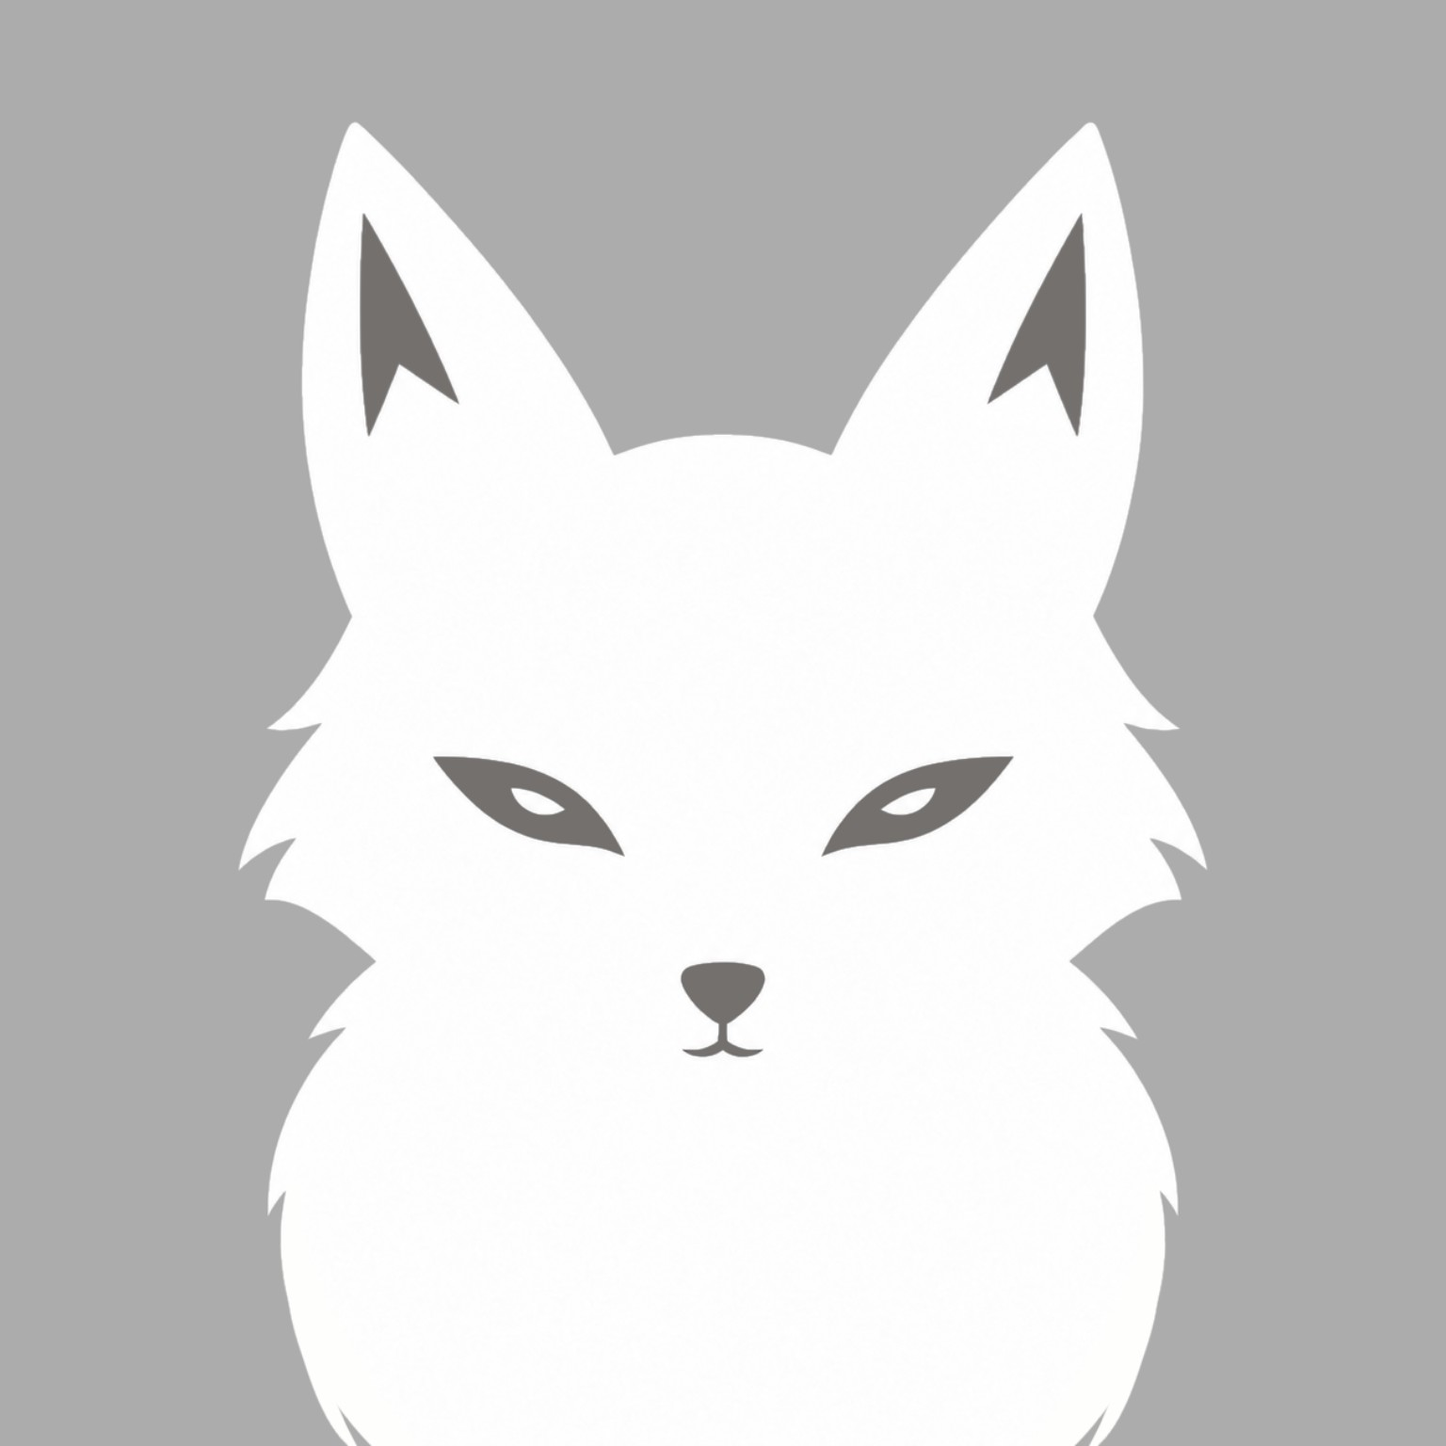
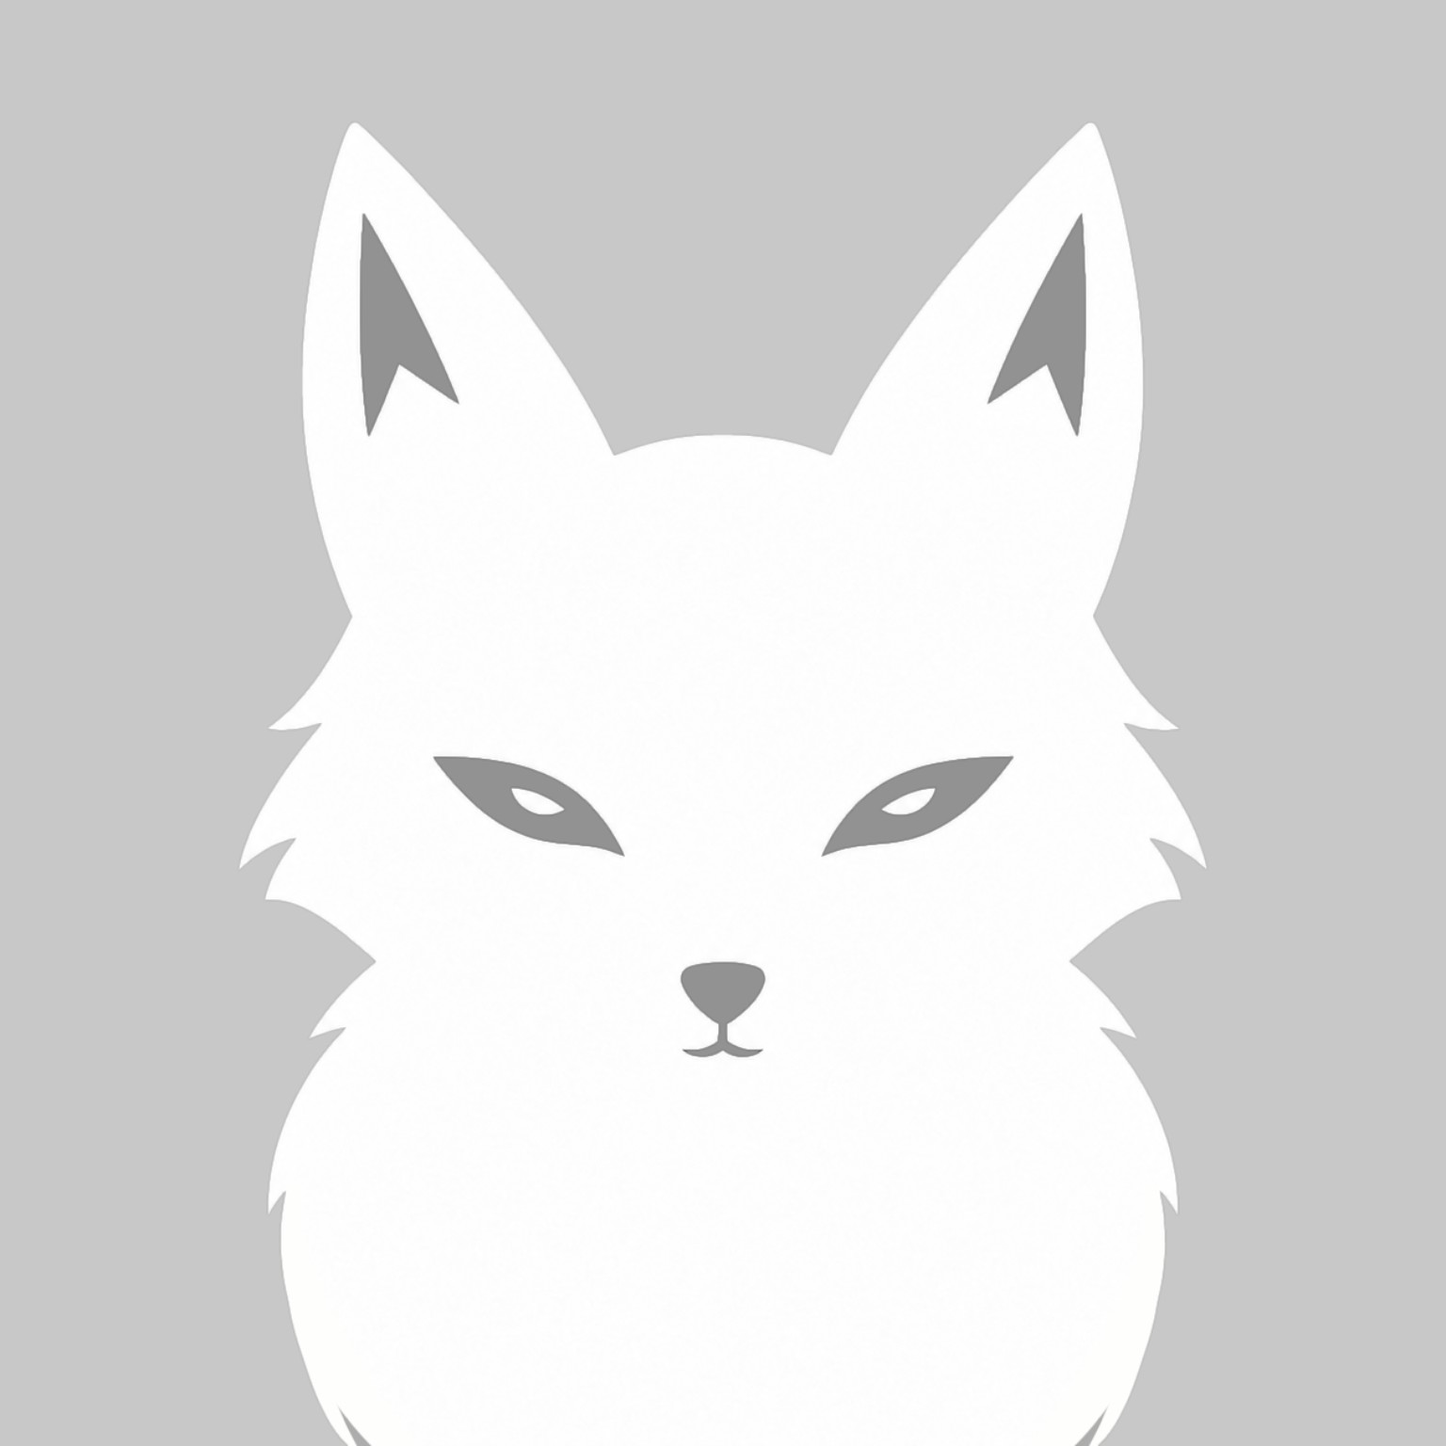
空照片统一使用小鸟吃掉图片预设，更新浅色默认头像与窗口图标
- 新增 PhotoImage 与 public/images/photo-placeholder.png：Chat 回忆照片、个人信息拍立得、播放器与音乐设置封面在未上传或读取失败时显示预设
- 预设不写入存档或图片库，上传图仍优先
- 替换狐狸、小鸟头像为浅色版本
- 删除 Chat 原空照片加号、提示文字与波点背景规则
- 图片清理标题图标与语音服务同色，关闭控件改为 12px 窗口方框叉号
- 新增说明 docs/photo-defaults-and-window-icons.md

Claude-Session: https://claude.ai/code/session_016ZF5nt8Kb8CDXJc19mBmz1

diff --git a/src/pages/Settings/Music/components/MusicTrackRow.tsx b/src/pages/Settings/Music/components/MusicTrackRow.tsx
@@ -1,3 +1,4 @@
+import {PhotoImage} from '../../../../components/shared/PhotoImage';
 import { PressedButton } from '../../../../components/shared/PressedButton';
 import type { CSSProperties } from 'react';
 import type { MusicTrack } from '../../../../types/music';
@@ -5,5 +6,5 @@ import { useMusic } from '../../../../providers/MusicProvider';
 export function MusicTrackRow({ track, index, isCurrent, isEditing, ghost = false, style }: { track: MusicTrack; index: number; isCurrent: boolean; isEditing: boolean; ghost?: boolean; style?: CSSProperties }) {
  const music = useMusic();
  const sorting = !ghost && music.drag?.sourceId === track.id;
- return <div className={`music-track-item${isCurrent ? ' active' : ''}${isEditing ? ' editing' : ''}${ghost ? ' music-drag-ghost' : sorting ? ' dragging touch-drag-source' : ''}`} draggable={false} data-track-id={track.id} style={style} ref={ghost ? undefined : node=>{if(node)music.rowRefs.current.set(track.id,node);else music.rowRefs.current.delete(track.id);}} onClick={ghost ? undefined : event=>{if((event.target as Element).closest('button,.music-track-drag'))return;music.selectTrack(track);}}>{"\n                "}<div className="music-track-thumb">{track.coverData ? <img src={track.coverData} alt="音乐封面" /> : <span>♪</span>}</div>{"\n                "}<div className="music-track-copy">{"\n                    "}<div className="music-track-name-row">{"\n                        "}<div className="music-track-name">{track.title || '未命名音乐'}</div>{isCurrent ? <>{"\n                        "}<span className="music-track-badge">当前</span>{"\n                    "}</> : "\n                        \n                    "}</div>{"\n                    "}<div className="music-track-sub">{`${track.type === 'file' ? '本地音乐' : '链接音乐'} · 第 ${index+1} 首`}</div>{"\n                "}</div>{"\n                "}<div className="music-track-actions">{"\n                    "}<div className="music-track-drag" onClick={event=>event.stopPropagation()} onPointerDown={ghost ? undefined : event=>music.beginSort(event,track,index)} aria-hidden="true" data-title="拖动排序"><svg xmlns="http://www.w3.org/2000/svg" width="14" height="14" viewBox="0 0 24 24" fill="none" stroke="currentColor" strokeWidth="2" strokeLinecap="round" strokeLinejoin="round"><circle cx="9" cy="12" r="1"></circle><circle cx="9" cy="5" r="1"></circle><circle cx="9" cy="19" r="1"></circle><circle cx="15" cy="12" r="1"></circle><circle cx="15" cy="5" r="1"></circle><circle cx="15" cy="19" r="1"></circle></svg></div>{"\n                    "}<PressedButton className="music-track-edit" onClick={ghost ? undefined : event=>{event.stopPropagation();music.chooseFiles(track.id);}} type="button" aria-label="更改音乐" data-title="更改音乐">{"\n                        "}<svg xmlns="http://www.w3.org/2000/svg" width="16" height="16" viewBox="0 0 24 24" fill="none" stroke="currentColor" strokeWidth="2" strokeLinecap="round" strokeLinejoin="round" className="lucide lucide-folder-open"><path d="m6 14 1.5-2.9A2 2 0 0 1 9.24 10H20a2 2 0 0 1 1.94 2.5l-1.54 6a2 2 0 0 1-1.95 1.5H4a2 2 0 0 1-2-2V5a2 2 0 0 1 2-2h3.9a2 2 0 0 1 1.69.9l.81 1.2a2 2 0 0 0 1.67.9H18a2 2 0 0 1 2 2v2"></path></svg>{"\n                    "}</PressedButton>{"\n                    "}<PressedButton className="music-track-delete" onClick={ghost ? undefined : event=>{event.stopPropagation();void music.deleteTrack(track);}} type="button" aria-label="删除音乐" data-title="删除音乐">{"\n                        "}<svg xmlns="http://www.w3.org/2000/svg" width="16" height="16" viewBox="0 0 24 24" fill="none" stroke="currentColor" strokeWidth="2" strokeLinecap="round" strokeLinejoin="round" className="lucide lucide-trash"><path d="M10 11v6"></path><path d="M14 11v6"></path><path d="M19 6v14a2 2 0 0 1-2 2H7a2 2 0 0 1-2-2V6"></path><path d="M3 6h18"></path><path d="M8 6V4a2 2 0 0 1 2-2h4a2 2 0 0 1 2 2v2"></path></svg>{"\n                    "}</PressedButton>{"\n                "}</div>{"\n            "}</div>;
+ return <div className={`music-track-item${isCurrent ? ' active' : ''}${isEditing ? ' editing' : ''}${ghost ? ' music-drag-ghost' : sorting ? ' dragging touch-drag-source' : ''}`} draggable={false} data-track-id={track.id} style={style} ref={ghost ? undefined : node=>{if(node)music.rowRefs.current.set(track.id,node);else music.rowRefs.current.delete(track.id);}} onClick={ghost ? undefined : event=>{if((event.target as Element).closest('button,.music-track-drag'))return;music.selectTrack(track);}}>{"\n                "}<div className="music-track-thumb"><PhotoImage src={track.coverData} alt="音乐封面" /></div>{"\n                "}<div className="music-track-copy">{"\n                    "}<div className="music-track-name-row">{"\n                        "}<div className="music-track-name">{track.title || '未命名音乐'}</div>{isCurrent ? <>{"\n                        "}<span className="music-track-badge">当前</span>{"\n                    "}</> : "\n                        \n                    "}</div>{"\n                    "}<div className="music-track-sub">{`${track.type === 'file' ? '本地音乐' : '链接音乐'} · 第 ${index+1} 首`}</div>{"\n                "}</div>{"\n                "}<div className="music-track-actions">{"\n                    "}<div className="music-track-drag" onClick={event=>event.stopPropagation()} onPointerDown={ghost ? undefined : event=>music.beginSort(event,track,index)} aria-hidden="true" data-title="拖动排序"><svg xmlns="http://www.w3.org/2000/svg" width="14" height="14" viewBox="0 0 24 24" fill="none" stroke="currentColor" strokeWidth="2" strokeLinecap="round" strokeLinejoin="round"><circle cx="9" cy="12" r="1"></circle><circle cx="9" cy="5" r="1"></circle><circle cx="9" cy="19" r="1"></circle><circle cx="15" cy="12" r="1"></circle><circle cx="15" cy="5" r="1"></circle><circle cx="15" cy="19" r="1"></circle></svg></div>{"\n                    "}<PressedButton className="music-track-edit" onClick={ghost ? undefined : event=>{event.stopPropagation();music.chooseFiles(track.id);}} type="button" aria-label="更改音乐" data-title="更改音乐">{"\n                        "}<svg xmlns="http://www.w3.org/2000/svg" width="16" height="16" viewBox="0 0 24 24" fill="none" stroke="currentColor" strokeWidth="2" strokeLinecap="round" strokeLinejoin="round" className="lucide lucide-folder-open"><path d="m6 14 1.5-2.9A2 2 0 0 1 9.24 10H20a2 2 0 0 1 1.94 2.5l-1.54 6a2 2 0 0 1-1.95 1.5H4a2 2 0 0 1-2-2V5a2 2 0 0 1 2-2h3.9a2 2 0 0 1 1.69.9l.81 1.2a2 2 0 0 0 1.67.9H18a2 2 0 0 1 2 2v2"></path></svg>{"\n                    "}</PressedButton>{"\n                    "}<PressedButton className="music-track-delete" onClick={ghost ? undefined : event=>{event.stopPropagation();void music.deleteTrack(track);}} type="button" aria-label="删除音乐" data-title="删除音乐">{"\n                        "}<svg xmlns="http://www.w3.org/2000/svg" width="16" height="16" viewBox="0 0 24 24" fill="none" stroke="currentColor" strokeWidth="2" strokeLinecap="round" strokeLinejoin="round" className="lucide lucide-trash"><path d="M10 11v6"></path><path d="M14 11v6"></path><path d="M19 6v14a2 2 0 0 1-2 2H7a2 2 0 0 1-2-2V6"></path><path d="M3 6h18"></path><path d="M8 6V4a2 2 0 0 1 2-2h4a2 2 0 0 1 2 2v2"></path></svg>{"\n                    "}</PressedButton>{"\n                "}</div>{"\n            "}</div>;
 }

diff --git a/src/pages/Settings/DataManagement/DataManagement.css b/src/pages/Settings/DataManagement/DataManagement.css
@@ -3,10 +3,10 @@
 .image-storage-tool { border: 1px solid var(--color-muted); border-radius: 3px; background: var(--color-surface); box-shadow: var(--effect-drop); overflow: hidden; color: var(--color-text); }
 .image-storage-titlebar { display: flex; align-items: center; justify-content: space-between; gap: 8px; padding: 8px 12px; border-bottom: 1px solid var(--color-muted); background: var(--color-page); }
 .image-storage-titlebar h3 { display: flex; align-items: center; gap: 5px; margin: 0; color: var(--color-text); font-size: 11px; font-weight: 600; letter-spacing: .8px; }
-.image-storage-titlebar h3 svg { width: 12px; height: 12px; fill: none; stroke: currentColor; stroke-width: 1.5; }
+.image-storage-titlebar h3 svg { width: 12px; height: 12px; fill: none; stroke: var(--set-fill, var(--win-deep)); stroke-width: 1.5; }
 .image-storage-title-tools { display: flex; align-items: center; gap: 8px; color: var(--color-muted); font-size: 9px; }
-.image-storage-close { width: 18px; height: 18px; padding: 0; display: grid; place-items: center; border: 1px solid var(--color-muted); border-radius: 1px; background: var(--effect-face-white); color: var(--color-text); box-shadow: var(--effect-raised); cursor: pointer; }
-.image-storage-close svg { width: 10px; height: 10px; fill: none; stroke: currentColor; stroke-width: 1.2; }
+.image-storage-close { width: 12px; height: 12px; padding: 0; display: grid; place-items: center; border: 0; border-radius: 0; background: transparent; color: var(--win-line); box-shadow: none; cursor: pointer; }
+.image-storage-close svg { width: 12px; height: 12px; fill: none; stroke: currentColor; stroke-width: 1; }
 .image-storage-content { padding: 16px; }
 .image-storage-intro { display: flex; align-items: center; gap: 10px; margin-bottom: 18px; }
 .image-storage-icon { width: 32px; height: 32px; flex: 0 0 32px; color: var(--color-accent); }

diff --git a/src/pages/Chat/List/ChatMemoryPhoto.tsx b/src/pages/Chat/List/ChatMemoryPhoto.tsx
@@ -1,5 +1,11 @@
-import {useRef,useState} from 'react';
 import {useChatMemory} from '../../../providers/ChatMemoryProvider';
+import {PhotoImage} from '../../../components/shared/PhotoImage';
 import type {NativeAttribute} from '../../../types/dom';
-export function ChatMemoryPhoto({attributes}:{attributes:NativeAttribute[]}){const memory=useChatMemory(),id=attributes.find(a=>a.name==='id')!.value;const [loaded,setLoaded]=useState(false),[failed,setFailed]=useState('');const source=memory.photos[id];const img=useRef<HTMLImageElement|null>(null);return <div className={'chat-memory-photo-wrap'+(loaded?' has-photo':'')} tabIndex={0} role="button" aria-label="添加或更换回忆照片" onClick={()=>memory.open(id)} onKeyDown={event=>{if(event.key==='Enter'||event.key===' '){event.preventDefault();memory.open(id);}}}><img ref={img} className="chat-memory-photo" id={id} alt="回忆照片" src={source&&source!==failed?source:undefined} onLoad={()=>setLoaded(true)} onError={()=>{setLoaded(false);setFailed(source);}}/></div>;}
+export function ChatMemoryPhoto({attributes}:{attributes:NativeAttribute[]}){
+  const memory=useChatMemory(),id=attributes.find(a=>a.name==='id')!.value;
+  return <div className="chat-memory-photo-wrap" tabIndex={0} role="button" aria-label="添加或更换回忆照片"
+    onClick={()=>memory.open(id)} onKeyDown={event=>{if(event.key==='Enter'||event.key===' '){event.preventDefault();memory.open(id);}}}>
+    <PhotoImage className="chat-memory-photo" id={id} alt="回忆照片" src={memory.photos[id]}/>
+  </div>;
+}
 export function ChatMemoryInput(){const memory=useChatMemory();return <input ref={memory.input} type="file" accept="image/*" hidden aria-label="选择回忆照片" onChange={memory.change}/>;}

diff --git a/src/pages/Chat/List/ChatList.css b/src/pages/Chat/List/ChatList.css
@@ -210,22 +210,7 @@
 
 /* @qingtuan-order:001768 */
 
-        .chat-memory-photo-wrap:not(.has-photo)::after {
-            content: '+';
-            position: absolute;
-            left: 50%;
-            top: 43%;
-            transform: translate(-50%, -50%);
-            font-size: 23px;
-            font-weight: 300;
-            line-height: 1;
-            color: var(--color-muted);
-            pointer-events: none;
-        }
-
 /* @qingtuan-order:001769 */
-
-        .chat-memory-photo-wrap:not(.has-photo) .chat-memory-photo { display: none; }
 
 /* @qingtuan-order:001770 */
 
@@ -612,19 +597,7 @@
 
 /* @qingtuan-order:001943 */
 
-#chatListView .chat-memory-photo-wrap:not(.has-photo)::after{
-  content:'＋  点击添加照片';top:50%;white-space:pre;padding:3px 10px;background:var(--color-surface);
-  color:var(--win-line);font-size:11px;letter-spacing:1px;font-weight:400;
-}
-
 /* @qingtuan-order:001944 */
-
-#chatListView .chat-memory-photo-wrap:not(.has-photo){
-  /* 两层错开的点点各往内挪 3.5px：原本有一排圆心刚好落在框的上缘，只露出半颗，看起来像一条虚线 */
-  background:
-    radial-gradient(circle,color-mix(in srgb,var(--theme-color) 42%,transparent) 0 1.6px,transparent 2.1px) 3.5px 3.5px / 14px 14px,
-    radial-gradient(circle,color-mix(in srgb,var(--theme-color) 42%,transparent) 0 1.6px,transparent 2.1px) 10.5px 10.5px / 14px 14px!important;
-}
 
 /* @qingtuan-order:001945 */
 

diff --git a/src/pages/PersonalProfile/PersonalProfile.tsx b/src/pages/PersonalProfile/PersonalProfile.tsx
@@ -1,4 +1,4 @@
-import { DEFAULT_BIRD_AVATAR } from '../../utils/defaultAvatar';
+import { DEFAULT_PHOTO } from '../../utils/defaultPhoto';
 import { PressedButton } from '../../components/shared/PressedButton';
 import { OriginalComment } from '../../components/shared/OriginalComment';
 import { EditableText } from '../../components/shared/EditableText';
@@ -146,7 +146,7 @@ export function PersonalProfile() {
 {"\n            "}
 <div className={"pp2-polaroid-front"}>
 {"\n              "}
-<div role={"button"} tabIndex={0} aria-label={"点击添加或更换照片"} data-title={"点击添加或更换照片"} className={`pp2-polaroid-photo${profile.photo ? " has-photo" : ""}`} style={{ backgroundImage: `url("${profile.photo || DEFAULT_BIRD_AVATAR}")` }} onClick={profile.choosePhoto} onKeyDown={event => {
+<div role={"button"} tabIndex={0} aria-label={"点击添加或更换照片"} data-title={"点击添加或更换照片"} className={`pp2-polaroid-photo${profile.photo ? " has-photo" : ""}`} style={{ backgroundImage: `url("${profile.photo || DEFAULT_PHOTO}")`, backgroundSize: profile.photo ? "cover" : "contain", backgroundColor: profile.photo ? undefined : "#f3f3f3" }} onClick={profile.choosePhoto} onKeyDown={event => {
                   if (event.key === "Enter" || event.key === " ") {
                     event.preventDefault();
                     profile.choosePhoto();

diff --git a/src/pages/Settings/DataManagement/ImageStorageSettings.tsx b/src/pages/Settings/DataManagement/ImageStorageSettings.tsx
@@ -26,7 +26,7 @@ export function ImageStorageSettings({open,onClose}:{open:boolean;onClose:()=>vo
   return <section className="image-storage-tool" id="imageStorageSection" aria-labelledby="imageStorageTitle">
     <div className="image-storage-titlebar">
       <h3 id="imageStorageTitle"><svg viewBox="0 0 24 24" aria-hidden="true"><rect x="3" y="3" width="18" height="18" rx="1"/><circle cx="8" cy="8" r="1.5"/><path d="m3 17 5-5 4 4 3-3 6 6"/></svg>图片清理</h3>
-      <div className="image-storage-title-tools"><span>本机图片库</span><PressedButton className="image-storage-close" id="imageStorageCloseBtn" type="button" aria-label="关闭图片清理" onClick={onClose}><svg viewBox="0 0 12 12" aria-hidden="true"><path d="m3 3 6 6m0-6-6 6"/></svg></PressedButton></div>
+      <div className="image-storage-title-tools"><span>本机图片库</span><PressedButton className="image-storage-close" id="imageStorageCloseBtn" type="button" aria-label="关闭图片清理" onClick={onClose}><svg viewBox="0 0 12 12" aria-hidden="true"><rect x=".5" y=".5" width="11" height="11"/><path d="m3.5 3.5 5 5m0-5-5 5"/></svg></PressedButton></div>
     </div>
     <div className="image-storage-content" aria-busy={busy}>
       <div className="image-storage-intro">

diff --git a/src/pages/Settings/Music/Music.tsx b/src/pages/Settings/Music/Music.tsx
@@ -1,3 +1,4 @@
+import {PhotoImage} from '../../../components/shared/PhotoImage';
 import { PressedButton } from '../../../components/shared/PressedButton';
 import { useMusic } from '../../../providers/MusicProvider';
 import { MusicPlaylist } from './components/MusicPlaylist';
@@ -188,7 +189,7 @@ export function Music() {
             {"\n                    "}
             <div className="music-cover-row">
               {"\n                        "}
-              <div className="music-cover-preview" id="musicCoverPreview">{music.coverPreview ? <img src={music.coverPreview} alt="音乐封面" /> : <span>封面</span>}</div>
+              <div className="music-cover-preview" id="musicCoverPreview"><PhotoImage src={music.coverPreview} alt="音乐封面" /></div>
               {"\n                        "}
               <div className="music-cover-actions">
                 {"\n                            "}

diff --git a/src/pages/Home/Home.tsx b/src/pages/Home/Home.tsx
@@ -1,3 +1,4 @@
+import {PhotoImage} from '../../components/shared/PhotoImage';
 import { DEFAULT_BIRD_AVATAR, DEFAULT_FOX_AVATAR } from '../../utils/defaultAvatar';
 import { PressedButton } from '../../components/shared/PressedButton';
 import { useWorld } from '../../providers/WorldProvider';
@@ -301,7 +302,7 @@ export function Home() {
             {"\n"}
             <div className="mp3-track">
               {"\n"}
-              <div className="player-mini-cover" id="playerMiniCover">{player.miniCover ? <img src={player.miniCover} alt="音乐封面" /> : <span>♪</span>}</div>
+              <div className="player-mini-cover" id="playerMiniCover"><PhotoImage src={player.miniCover} alt="音乐封面" /></div>
               {"\n"}
               <div className="mp3-track-text">
                 {"\n"}

diff --git a/src/components/shared/PhotoImage.tsx b/src/components/shared/PhotoImage.tsx
@@ -1,0 +1,10 @@
+import {useState, type ImgHTMLAttributes} from 'react';
+import {DEFAULT_PHOTO} from '../../utils/defaultPhoto';
+/** 上传图优先；未上传或读取失败时完整显示预设。 */
+export function PhotoImage({src,style,onError,...props}:ImgHTMLAttributes<HTMLImageElement>){
+  const [failed,setFailed]=useState<string>();
+  const custom=Boolean(src&&src!==failed);
+  return <img {...props} src={custom?src:DEFAULT_PHOTO} data-default-photo={!custom||undefined}
+    style={{...style,...(!custom?{objectFit:'contain',backgroundColor:'#f3f3f3'}:{})}}
+    onError={event=>{if(custom)setFailed(src);onError?.(event);}}/>;
+}

diff --git a/src/utils/defaultPhoto.ts b/src/utils/defaultPhoto.ts
@@ -1,0 +1,2 @@
+/** 空照片位置的静态预设，不写入用户图片库。 */
+export const DEFAULT_PHOTO = `${import.meta.env.BASE_URL}images/photo-placeholder.png`;

diff --git a/docs/photo-defaults-and-window-icons.md b/docs/photo-defaults-and-window-icons.md
@@ -1,0 +1,14 @@
+# 照片预设与窗口图标
+
+基于 origin/main 4eed668（已包含默认狐狸/小鸟头像及下拉按钮独立反馈修改）。请合并源文件，不追加覆盖 CSS。构建产物 dist 不在包内。
+
+- public/images/photo-placeholder.png：本次用户提供的小鸟吃掉图片预设原文件。
+- public/avatars/avatar-bird.png、avatar-fox.png：直接替换为本次提供的浅色版本，保留原路径。
+- 星星/个人头像使用小鸟，月亮/角色头像使用狐狸；自选头像继续优先。
+- Chat 的四个回忆照片位置、个人信息拍立得、主页播放器音乐封面、音乐设置封面/曲目缩图采用统一空照片预设。上传图仍按原方式保存和显示。
+- 世界书波点封面按用户补充要求完整保留；壁纸、应用图标、开屏图标不使用照片预设。
+- 预设静态图片不写入存档或图片库。PhotoImage 在上传图加载失败时显示预设，预设使用 contain 显示完整内容；自选照片保留原裁切方式。
+- 删除 Chat 原空照片加号/提示文字/隐藏图片/波点背景规则，不与预设叠加。
+- 图片清理标题图标与语音服务标题图标使用同一主题色变量。关闭控件采用同款 12px 窗口方框叉号，去掉原立体按钮边框和高光；保持实际关闭功能。
+
+验证：npm run build、git diff --check 通过；浏览器 14 项检查通过，包括默认图加载、四个 Chat 窗口、头像、拍立得、音乐封面、参考图标颜色、关闭行为、上传优先、上传刷新保留、默认图刷新保留、预设不进入图片库及无页面异常。
